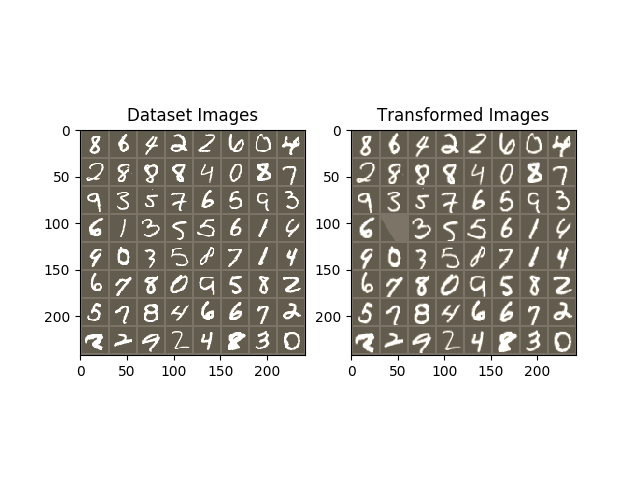
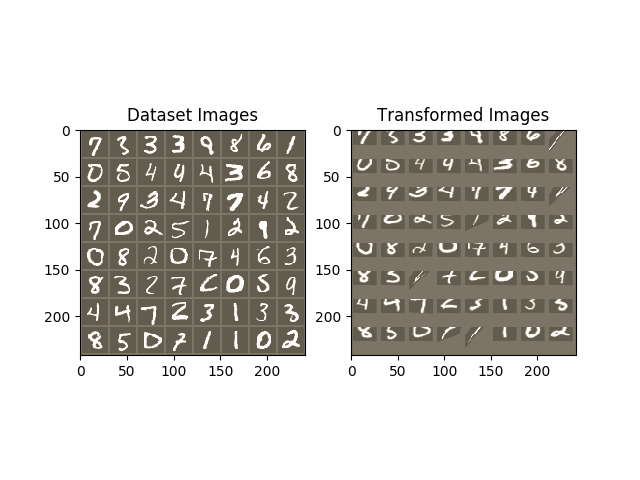
not bad

Changed region(s): [[0.5312, 0.25, 0.9062, 0.75], [0.125, 0.2812, 0.4688, 0.75]]

diff --git a/spatial_transformer_tutorial.py b/spatial_transformer_tutorial.py
@@ -51,7 +51,7 @@ device = torch.device("cuda" if torch.cuda.is_available() else "cpu")
 
 # Training dataset
 train_loader = torch.utils.data.DataLoader(
-    datasets.MNIST(
+    datasets.CIFAR_10(
         root=".",
         train=True,
         download=True,
@@ -65,7 +65,7 @@ train_loader = torch.utils.data.DataLoader(
 )
 # Test dataset
 test_loader = torch.utils.data.DataLoader(
-    datasets.MNIST(
+    datasets.CIFAR_10(
         root=".",
         train=False,
         transform=transforms.Compose(
@@ -240,18 +240,12 @@ def train(epoch):
             optimizer.zero_grad()
             transformer_matrix = model.stn(data)[1]
             try:
-                perception_loss = (
-                    torch.exp(((
-                        -torch.sum((identity_tensor[0:32] - transformer_matrix) ** 2)
-                    )
-                    ** 2 )/ 20 )
+                MSE = torch.sum((identity_tensor - transformer_matrix)**2)
 
             except:
-                perception_loss = (
-                    torch.exp(((
-                        -torch.sum((identity_tensor[0:32] - transformer_matrix) ** 2)
-                    )
-                    ** 2 )/ 20 )
+                MSE = torch.sum((identity_tensor[0:32] - transformer_matrix)**2)
+                
+            perception_loss = 0.2 / (1 + MSE ** 2)
             print("perception loss", perception_loss)
             loss = perception_loss - discriminator_loss
             loss.backward()
